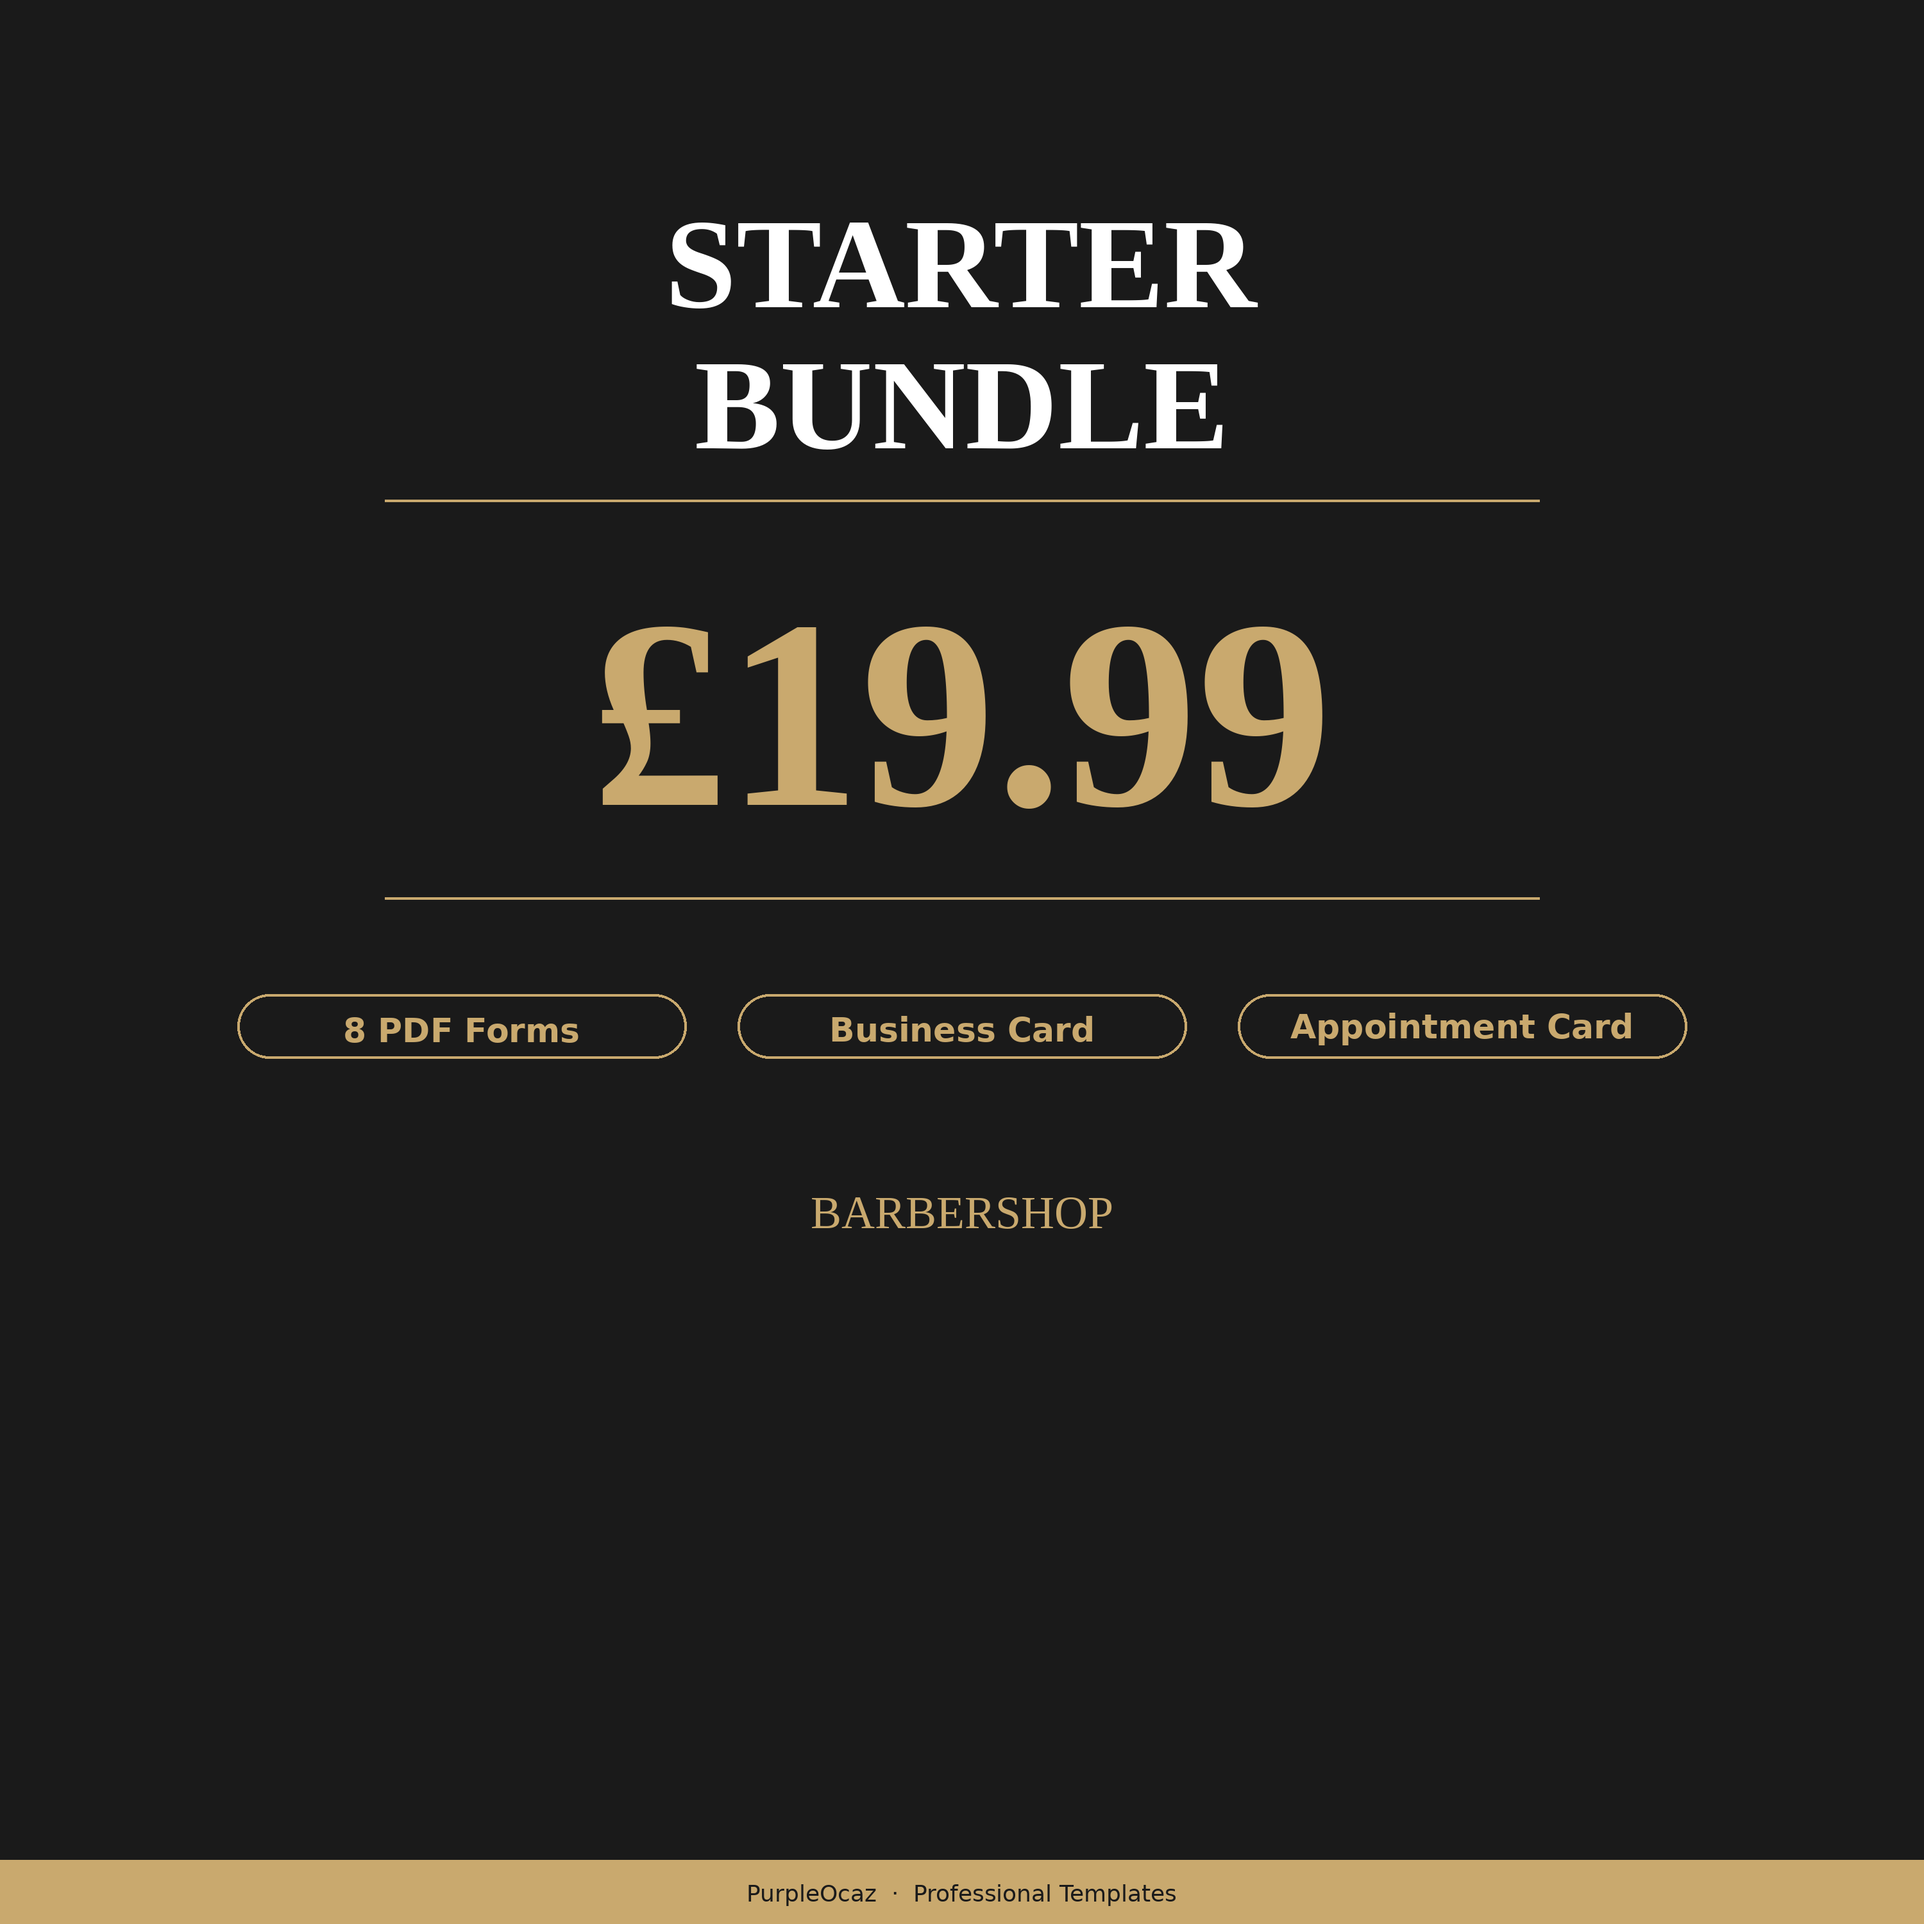
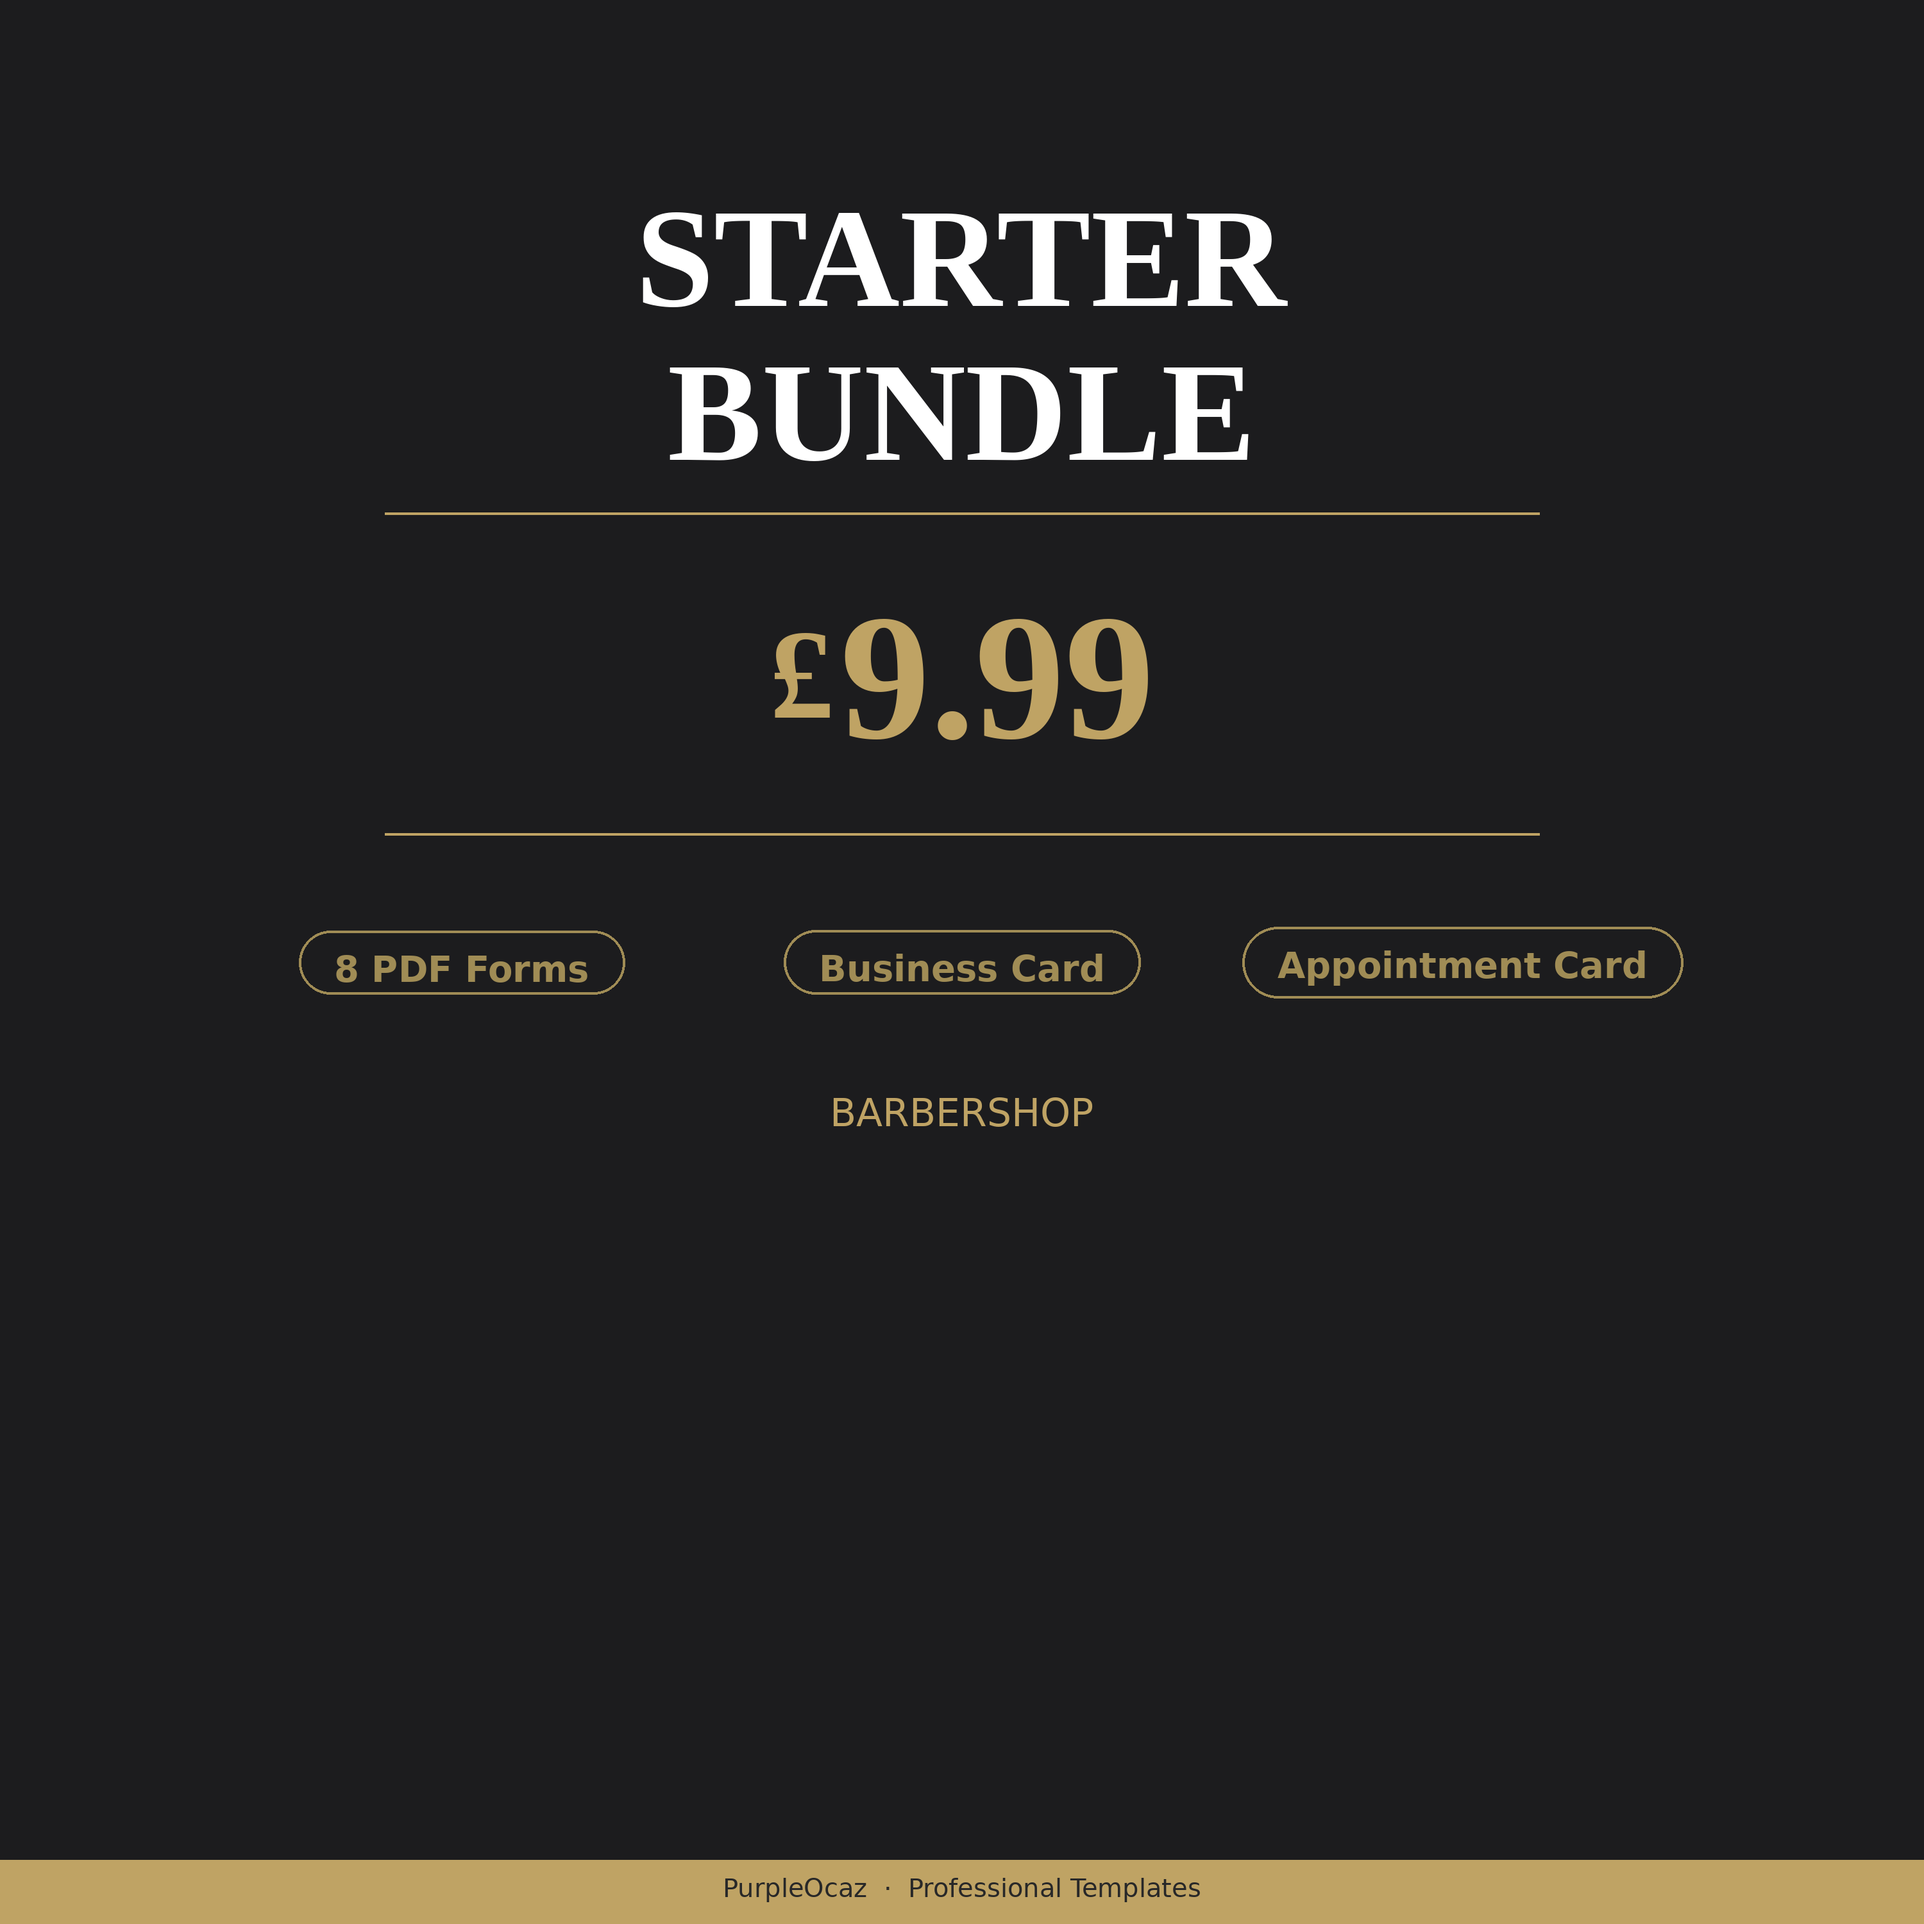
fix: update starter bundle heroes from £19.99 to £9.99
Regenerated all 5 niche starter bundle hero thumbnails with new
£9.99 price point. Uploaded to Etsy, deleted old R1 images, verified
all listings show correct 3-image rank order.

Listings updated:
- Tattoo: 4476255084
- Barbershop: 4476249863
- Nail Tech: 4476259024
- Lash Tech: 4476259070
- Hair Salon: 4476249947

diff --git a/scripts/generate_starter_bundle_heroes.py b/scripts/generate_starter_bundle_heroes.py
@@ -1,0 +1,181 @@
+#!/usr/bin/env python3
+"""
+Generate starter bundle hero thumbnails for all 5 niches.
+Bold minimal dark design: dark bg, white serif title, gold price,
+gold dividers, feature pills, niche subtitle, footer bar.
+
+Usage:
+    python scripts/generate_starter_bundle_heroes.py
+"""
+
+import os
+from PIL import Image, ImageDraw, ImageFont
+
+# ── Config ────────────────────────────────────────────────────────────────────
+SZ = 3000  # Square canvas
+PRICE = "£9.99"
+
+# Colors
+BG_COLOR = (28, 28, 30)           # Near-black
+GOLD = (191, 163, 100)            # Muted gold for price, dividers, subtitle
+GOLD_PILL = (160, 140, 85)        # Slightly darker gold for pill outlines/text
+WHITE = (255, 255, 255)
+FOOTER_BG = (191, 163, 100)      # Gold footer bar
+FOOTER_TEXT = (40, 40, 40)        # Dark text on gold bar
+
+# Fonts
+_SERIF_BOLD = '/usr/share/fonts/truetype/liberation/LiberationSerif-Bold.ttf'
+_SANS_BOLD  = '/usr/share/fonts/truetype/dejavu/DejaVuSans-Bold.ttf'
+_SANS       = '/usr/share/fonts/truetype/dejavu/DejaVuSans.ttf'
+
+def _font(path, size):
+    try:
+        return ImageFont.truetype(path, size)
+    except Exception:
+        return ImageFont.load_default()
+
+# Niche definitions
+NICHES = [
+    {
+        "name": "Tattoo",
+        "subtitle": "TATTOO STUDIO",
+        "output_dir": "outputs/tattoo-starter-bundle",
+        "output_file": "hero_v2.png",
+    },
+    {
+        "name": "Barbershop",
+        "subtitle": "BARBERSHOP",
+        "output_dir": "outputs/barbershop-starter-bundle",
+        "output_file": "hero_starter_bundle.png",
+    },
+    {
+        "name": "Nail Tech",
+        "subtitle": "NAIL TECH",
+        "output_dir": "outputs/nail-tech-starter-bundle",
+        "output_file": "hero_starter_bundle.png",
+    },
+    {
+        "name": "Lash Tech",
+        "subtitle": "LASH TECH",
+        "output_dir": "outputs/lash-tech-starter-bundle",
+        "output_file": "hero_starter_bundle.png",
+    },
+    {
+        "name": "Hair Salon",
+        "subtitle": "HAIR SALON",
+        "output_dir": "outputs/hair-salon-starter-bundle",
+        "output_file": "hero_starter_bundle.png",
+    },
+]
+
+PILLS = ["8 PDF Forms", "Business Card", "Appointment Card"]
+
+
+def _center_text(draw, text, y, font, fill):
+    """Draw text centered horizontally at given y."""
+    bbox = draw.textbbox((0, 0), text, font=font)
+    tw = bbox[2] - bbox[0]
+    x = (SZ - tw) // 2
+    draw.text((x, y), text, font=font, fill=fill)
+
+
+def _draw_pill(draw, cx, cy, text, font):
+    """Draw a rounded pill outline with text centered."""
+    bbox = draw.textbbox((0, 0), text, font=font)
+    tw = bbox[2] - bbox[0]
+    th = bbox[3] - bbox[1]
+    pad_x, pad_y = 55, 28
+    pw, ph = tw + pad_x * 2, th + pad_y * 2
+    x0, y0 = cx - pw // 2, cy - ph // 2
+    draw.rounded_rectangle(
+        [x0, y0, x0 + pw, y0 + ph],
+        radius=ph // 2,
+        outline=GOLD_PILL,
+        width=4,
+    )
+    tx = cx - tw // 2
+    ty = cy - th // 2
+    draw.text((tx, ty), text, font=font, fill=GOLD_PILL)
+
+
+def generate_hero(niche):
+    img = Image.new('RGB', (SZ, SZ), BG_COLOR)
+    draw = ImageDraw.Draw(img)
+
+    # Fonts
+    f_title = _font(_SERIF_BOLD, 220)
+    f_price_symbol = _font(_SERIF_BOLD, 200)
+    f_price = _font(_SERIF_BOLD, 280)
+    f_pill = _font(_SANS_BOLD, 56)
+    f_subtitle = _font(_SANS, 60)
+    f_footer = _font(_SANS, 40)
+
+    # ── Title: "STARTER" / "BUNDLE" ──────────────────────────────────────
+    _center_text(draw, "STARTER", 280, f_title, WHITE)
+    _center_text(draw, "BUNDLE", 520, f_title, WHITE)
+
+    # ── Gold divider line 1 ──────────────────────────────────────────────
+    div_y1 = 800
+    div_margin = 600
+    draw.line([(div_margin, div_y1), (SZ - div_margin, div_y1)],
+              fill=GOLD, width=4)
+
+    # ── Price: "£9.99" with £ in gold, rest in gold ─────────────────────
+    # Measure the full price text to center it
+    price_text = PRICE
+    bbox_full = draw.textbbox((0, 0), price_text, font=f_price)
+
+    # Split into £ symbol and number
+    symbol = "£"
+    number = PRICE[1:]  # "9.99"
+
+    bbox_sym = draw.textbbox((0, 0), symbol, font=f_price_symbol)
+    sym_w = bbox_sym[2] - bbox_sym[0]
+    bbox_num = draw.textbbox((0, 0), number, font=f_price)
+    num_w = bbox_num[2] - bbox_num[0]
+
+    total_w = sym_w + num_w + 10  # small gap
+    start_x = (SZ - total_w) // 2
+    price_y = 900
+
+    # Draw £ slightly smaller
+    draw.text((start_x, price_y + 40), symbol, font=f_price_symbol, fill=GOLD)
+    draw.text((start_x + sym_w + 10, price_y), number, font=f_price, fill=GOLD)
+
+    # ── Gold divider line 2 ──────────────────────────────────────────────
+    div_y2 = 1300
+    draw.line([(div_margin, div_y2), (SZ - div_margin, div_y2)],
+              fill=GOLD, width=4)
+
+    # ── Feature pills ────────────────────────────────────────────────────
+    pill_y = 1500
+    pill_spacing = 780
+    start_pill_x = SZ // 2 - pill_spacing
+    for i, label in enumerate(PILLS):
+        cx = start_pill_x + i * pill_spacing
+        _draw_pill(draw, cx, pill_y, label, f_pill)
+
+    # ── Niche subtitle ───────────────────────────────────────────────────
+    _center_text(draw, niche["subtitle"], 1700, f_subtitle, GOLD)
+
+    # ── Gold footer bar ──────────────────────────────────────────────────
+    footer_h = 100
+    footer_y = SZ - footer_h
+    draw.rectangle([0, footer_y, SZ, SZ], fill=FOOTER_BG)
+    footer_text = "PurpleOcaz  ·  Professional Templates"
+    _center_text(draw, footer_text, footer_y + 20, f_footer, FOOTER_TEXT)
+
+    # ── Save ─────────────────────────────────────────────────────────────
+    out_dir = niche["output_dir"]
+    os.makedirs(out_dir, exist_ok=True)
+    out_path = os.path.join(out_dir, niche["output_file"])
+    img.save(out_path, quality=96)
+    print(f"  Saved: {out_path}")
+    return out_path
+
+
+if __name__ == "__main__":
+    print("Generating starter bundle heroes with £9.99...")
+    for niche in NICHES:
+        generate_hero(niche)
+    print("Done!")

diff --git a/WINS.md b/WINS.md
@@ -5,6 +5,12 @@ Most recent first. Read this to repeat what works.
 
 ---
 
+### 2026-03-23 08:03 — Starter bundle hero price update
+
+**Pattern:** Regenerated all 5 starter bundle hero thumbnails with £9.99 (down from £19.99). Used Pillow to match existing bold minimal dark design. Uploaded to Etsy, deleted old R1 images, verified all 5 listings show 3 images with correct rank order. All PASS.
+
+---
+
 ### 2026-03-23 06:46 — Price update to GBP 9.99 on all 5 starter bundles
 
 **Pattern:** Used PUT /listings/{id}/inventory endpoint — the only way to update price on existing listings. PATCH price is silently ignored on both draft and active listings. All 5 GET-verified at 9.99.
